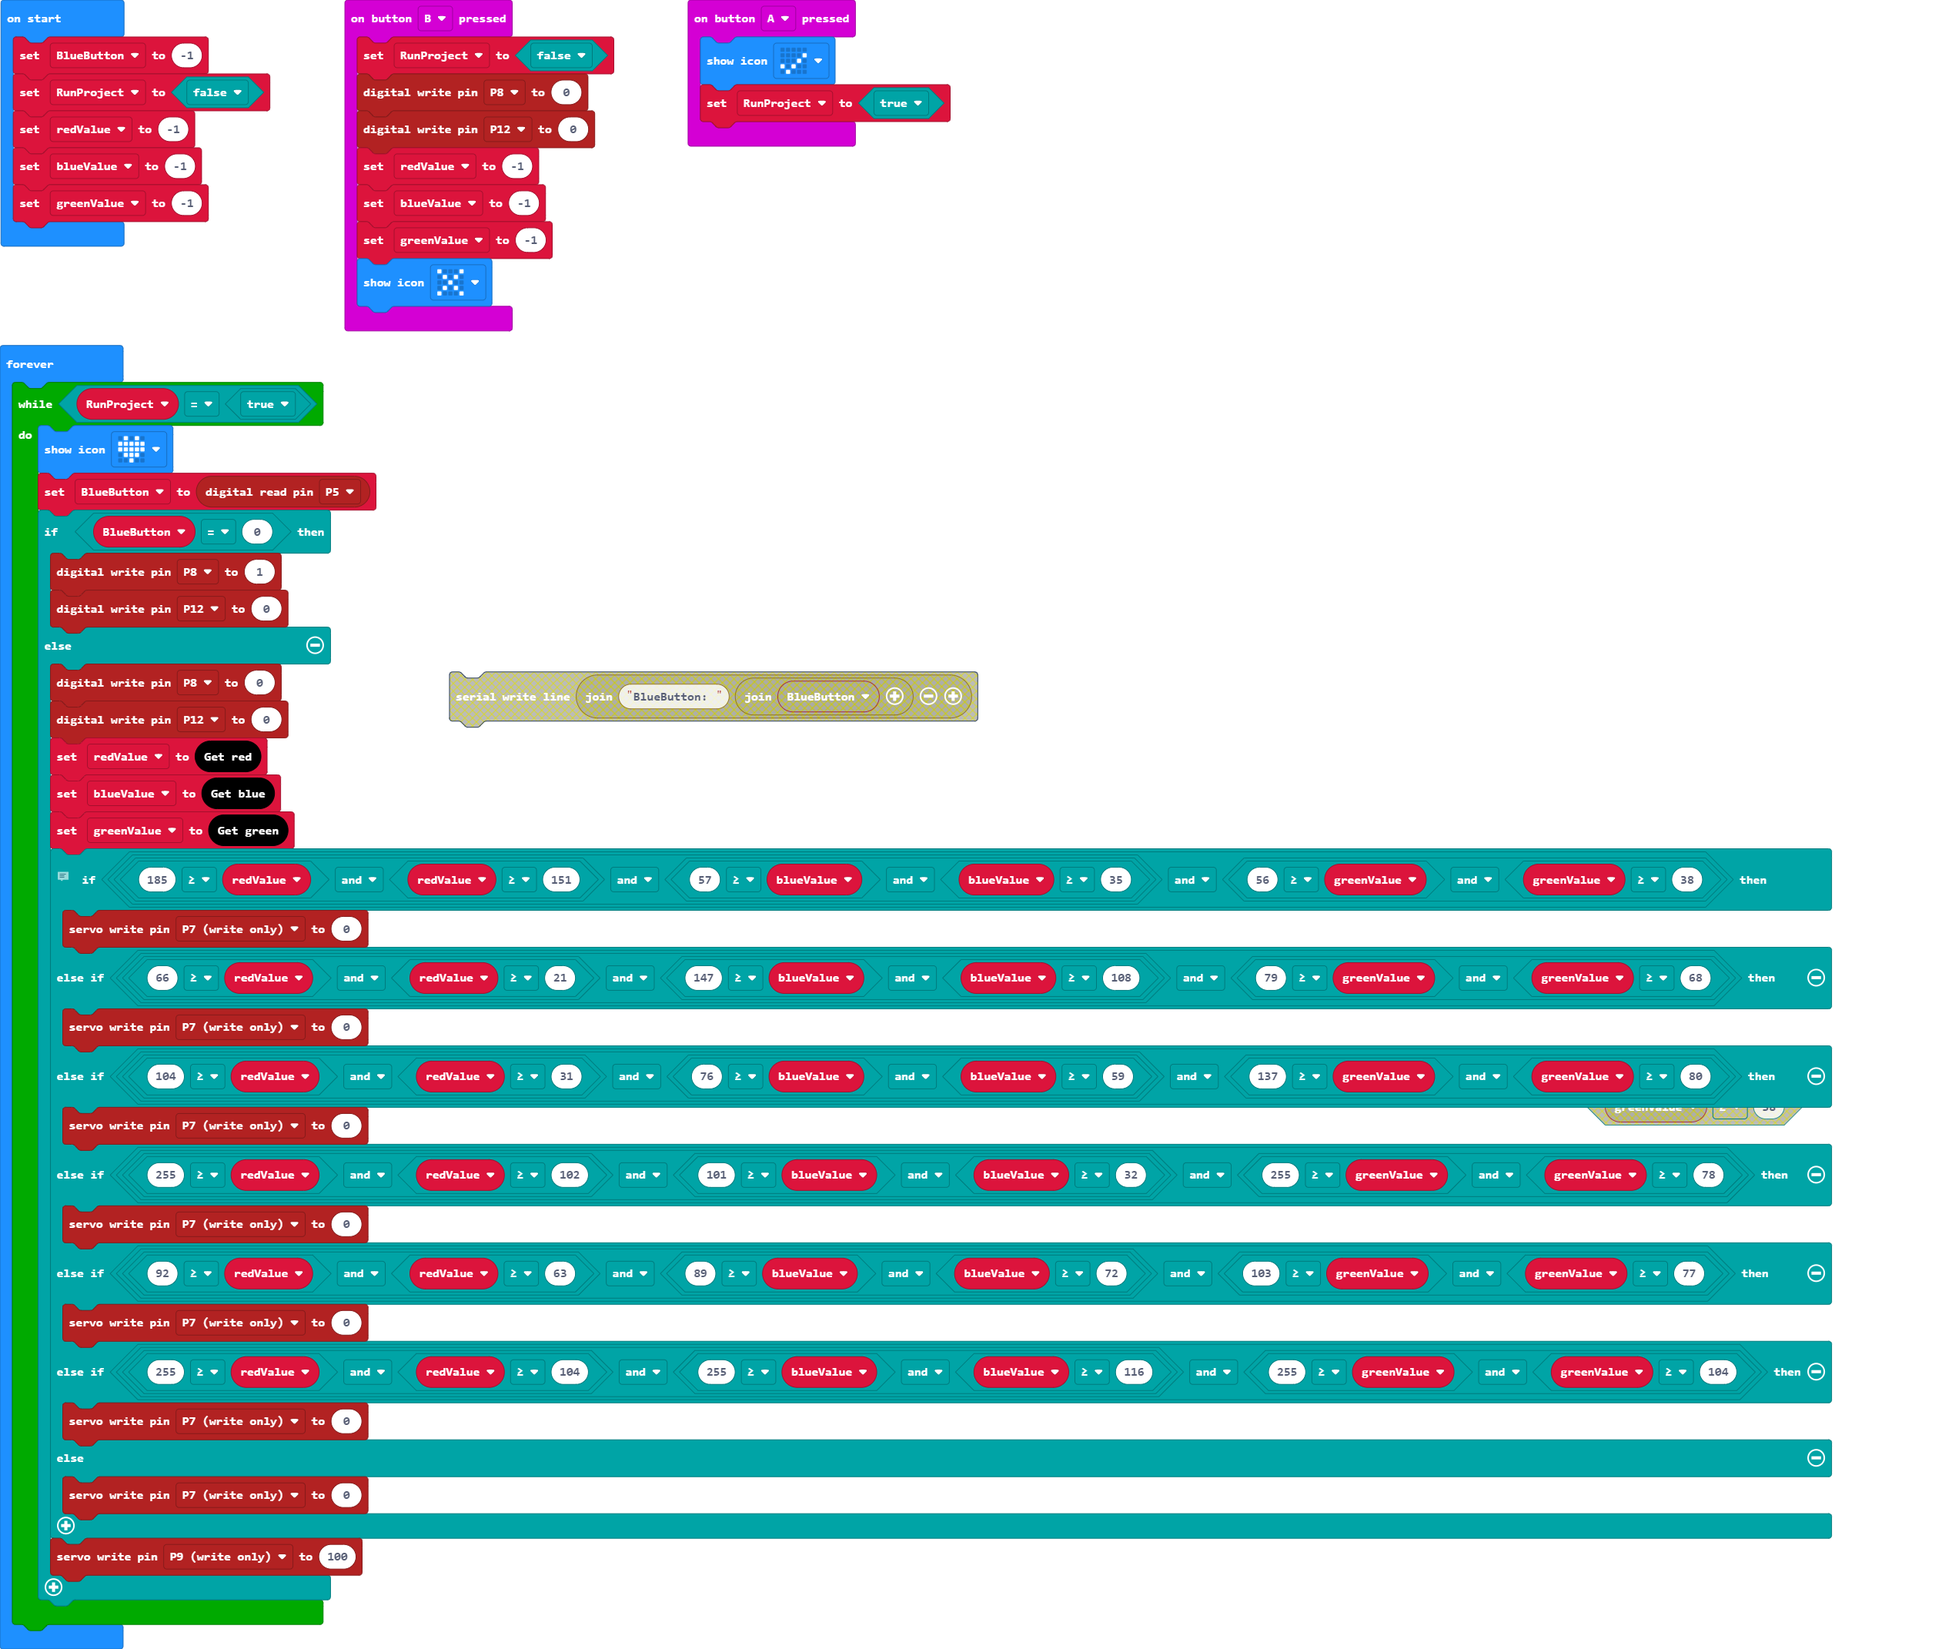
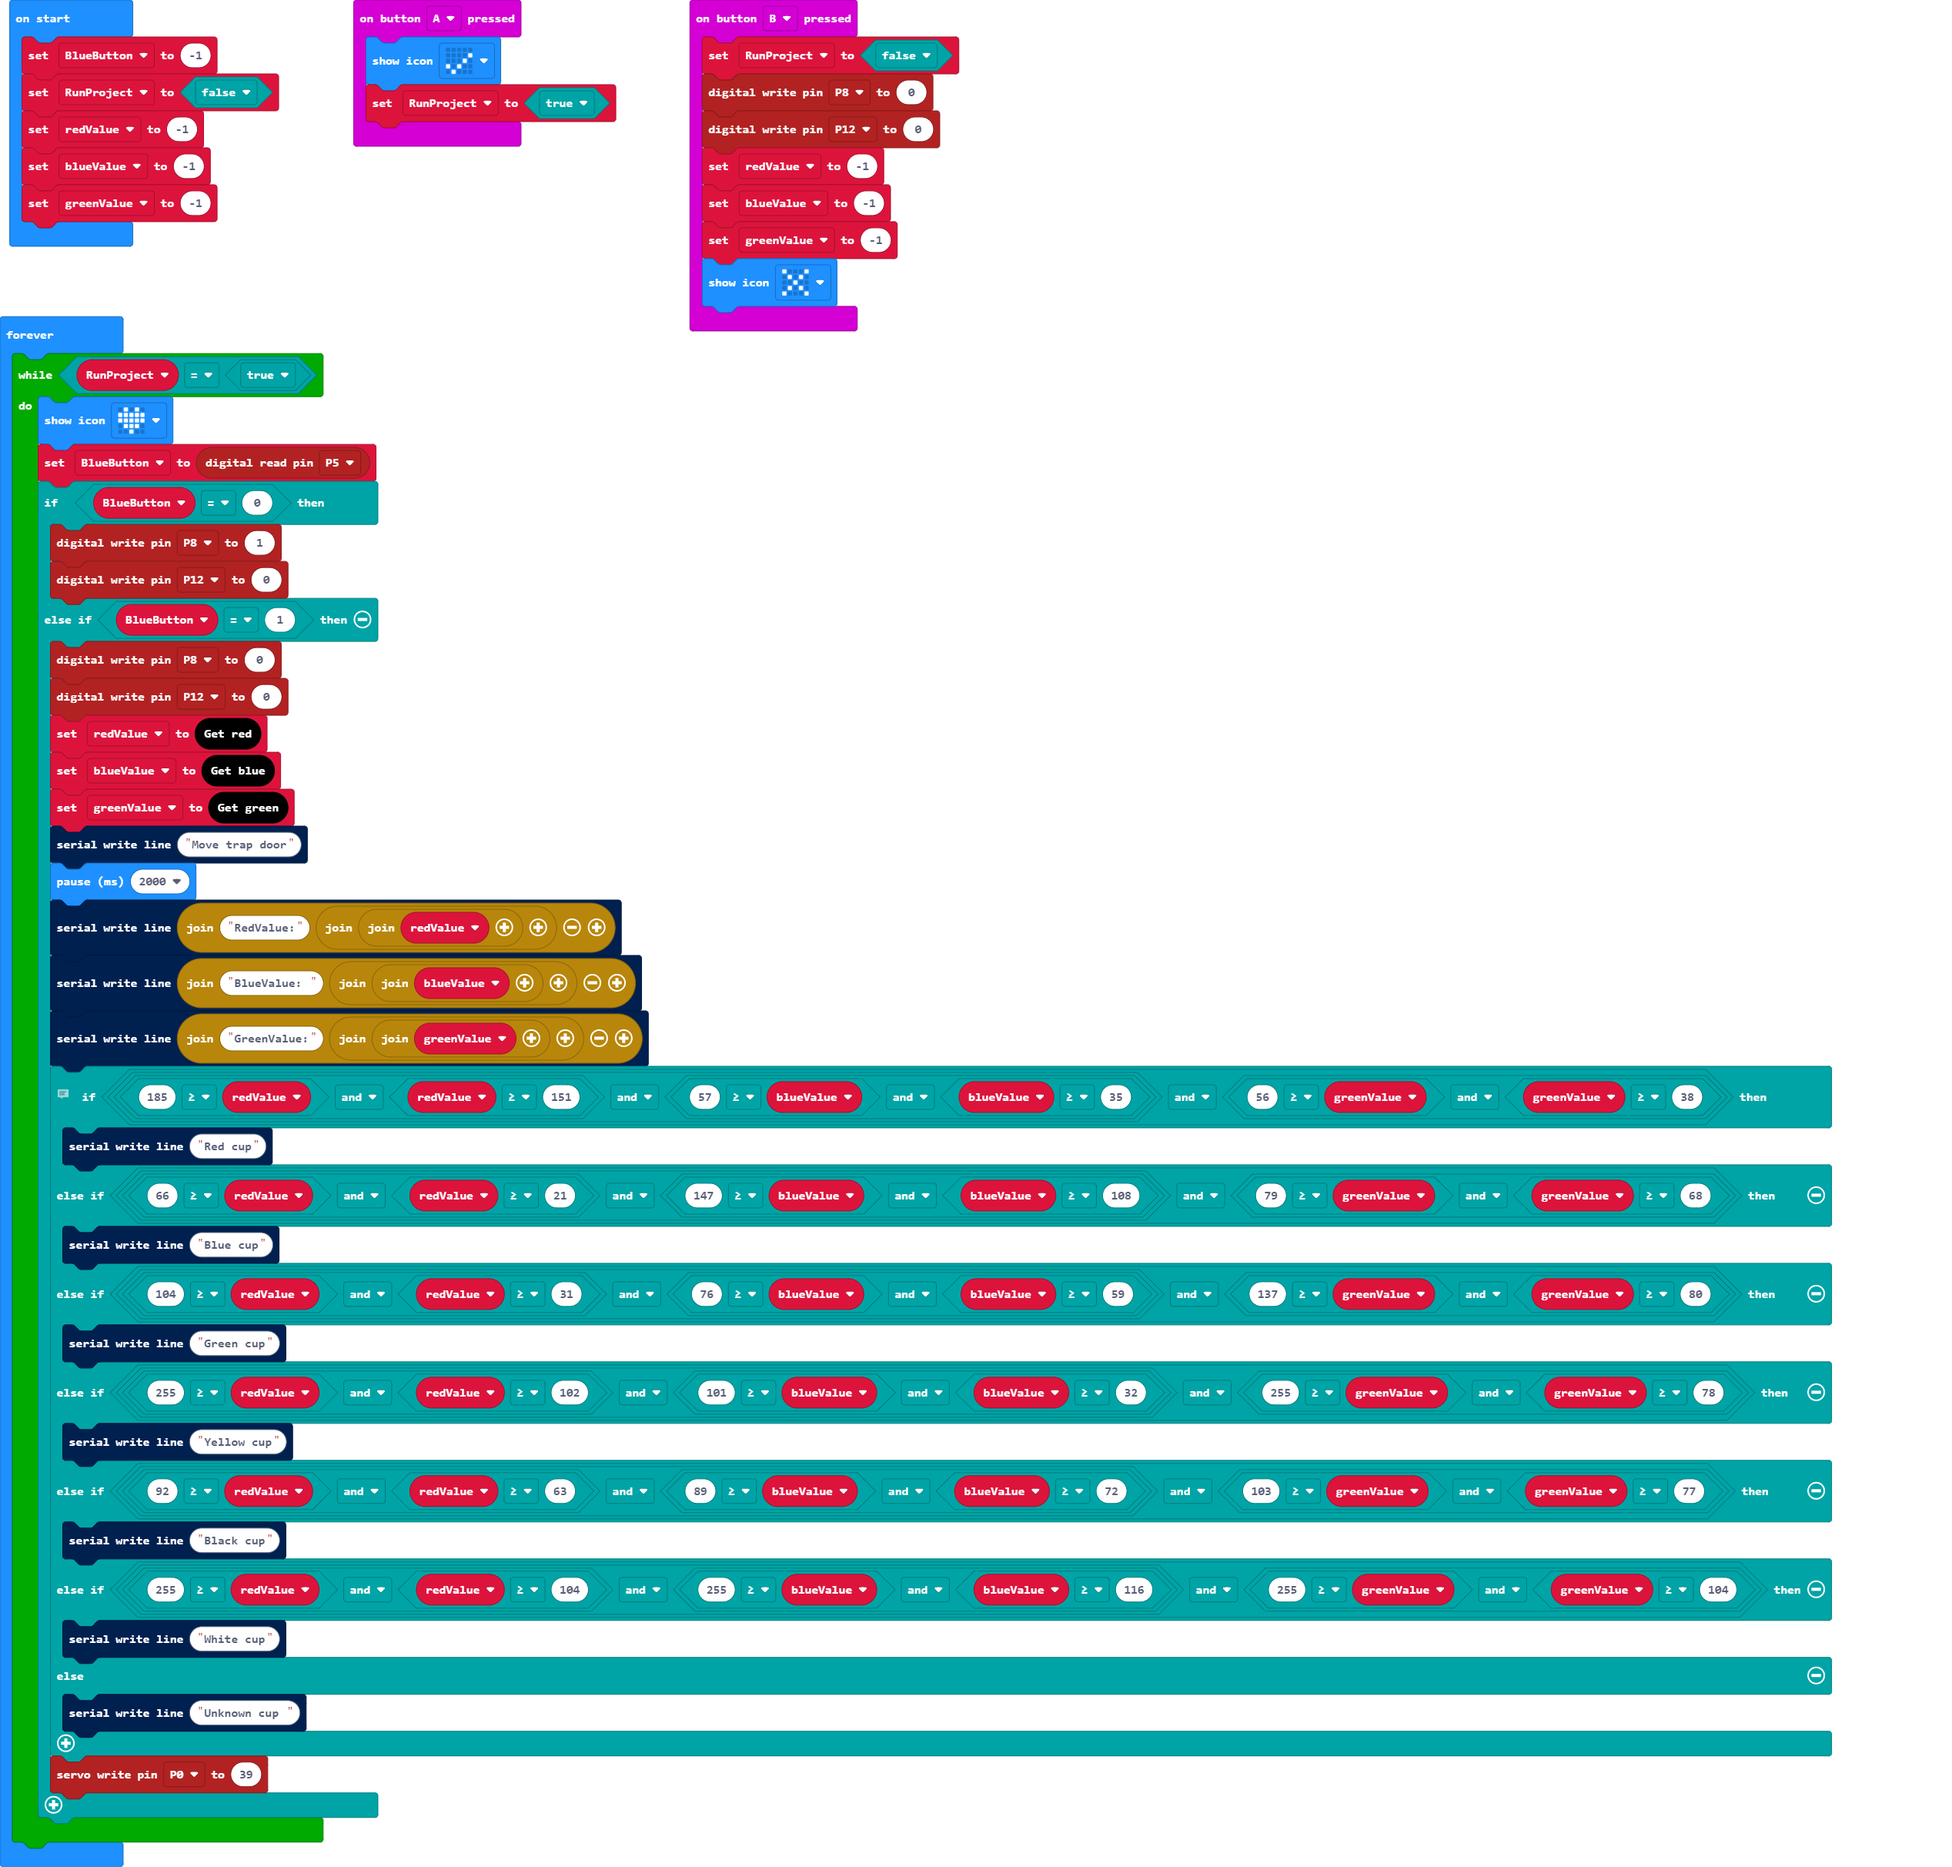
Update main.blocks, main.ts, main.py

diff --git a/main.ts b/main.ts
@@ -27,12 +27,17 @@ basic.forever(function () {
         if (BlueButton == 0) {
             pins.digitalWritePin(DigitalPin.P8, 1)
             pins.digitalWritePin(DigitalPin.P12, 0)
-        } else {
+        } else if (BlueButton == 1) {
             pins.digitalWritePin(DigitalPin.P8, 0)
             pins.digitalWritePin(DigitalPin.P12, 0)
             redValue = envirobit.getRed()
             blueValue = envirobit.getBlue()
             greenValue = envirobit.getGreen()
+            serial.writeLine("Move trap door")
+            basic.pause(2000)
+            serial.writeLine("RedValue:" + ("" + redValue))
+            serial.writeLine("BlueValue: " + ("" + blueValue))
+            serial.writeLine("GreenValue:" + ("" + greenValue))
             // Red
             // Blue
             // Green
@@ -41,21 +46,21 @@ basic.forever(function () {
             // White
             // Unknown
             if (185 >= redValue && redValue >= 151 && (57 >= blueValue && blueValue >= 35) && (56 >= greenValue && greenValue >= 38)) {
-                pins.servoWritePin(AnalogPin.P7, 0)
+                serial.writeLine("Red cup")
             } else if (66 >= redValue && redValue >= 21 && (147 >= blueValue && blueValue >= 108) && (79 >= greenValue && greenValue >= 68)) {
-                pins.servoWritePin(AnalogPin.P7, 0)
+                serial.writeLine("Blue cup")
             } else if (104 >= redValue && redValue >= 31 && (76 >= blueValue && blueValue >= 59) && (137 >= greenValue && greenValue >= 80)) {
-                pins.servoWritePin(AnalogPin.P7, 0)
+                serial.writeLine("Green cup")
             } else if (255 >= redValue && redValue >= 102 && (101 >= blueValue && blueValue >= 32) && (255 >= greenValue && greenValue >= 78)) {
-                pins.servoWritePin(AnalogPin.P7, 0)
+                serial.writeLine("Yellow cup")
             } else if (92 >= redValue && redValue >= 63 && (89 >= blueValue && blueValue >= 72) && (103 >= greenValue && greenValue >= 77)) {
-                pins.servoWritePin(AnalogPin.P7, 0)
+                serial.writeLine("Black cup")
             } else if (255 >= redValue && redValue >= 104 && (255 >= blueValue && blueValue >= 116) && (255 >= greenValue && greenValue >= 104)) {
-                pins.servoWritePin(AnalogPin.P7, 0)
+                serial.writeLine("White cup")
             } else {
-                pins.servoWritePin(AnalogPin.P7, 0)
+                serial.writeLine("Unknown cup ")
             }
-            pins.servoWritePin(AnalogPin.P9, 100)
+            pins.servoWritePin(AnalogPin.P0, 39)
         }
     }
 })

diff --git a/main.py b/main.py
@@ -33,31 +33,15 @@ def on_forever():
         if BlueButton == 0:
             pins.digital_write_pin(DigitalPin.P8, 1)
             pins.digital_write_pin(DigitalPin.P12, 0)
-        else:
+            serial.write_line("If, BlueButton:" + ("" + str(BlueButton)))
+        elif BlueButton == 1:
             pins.digital_write_pin(DigitalPin.P8, 0)
             pins.digital_write_pin(DigitalPin.P12, 0)
             redValue = envirobit.get_red()
             blueValue = envirobit.get_blue()
             greenValue = envirobit.get_green()
-            # Red
-            if 185 >= redValue and redValue >= 151 and (57 >= blueValue and blueValue >= 35) and (56 >= greenValue and greenValue >= 38):
-                pass
-            # Blue
-            elif 185 >= redValue and redValue >= 151 and (57 >= blueValue and blueValue >= 35) and (56 >= greenValue and greenValue >= 38):
-                pass
-            # Green
-            elif 185 >= redValue and redValue >= 151 and (57 >= blueValue and blueValue >= 35) and (56 >= greenValue and greenValue >= 38):
-                pass
-            # Yellow
-            elif 185 >= redValue and redValue >= 151 and (57 >= blueValue and blueValue >= 35) and (56 >= greenValue and greenValue >= 38):
-                pass
-            # Black
-            elif 185 >= redValue and redValue >= 151 and (57 >= blueValue and blueValue >= 35) and (56 >= greenValue and greenValue >= 38):
-                pass
-            # White
-            elif 185 >= redValue and redValue >= 151 and (57 >= blueValue and blueValue >= 35) and (56 >= greenValue and greenValue >= 38):
-                pass
-            # Unknown
-            else:
-                pass
+            BlueButton = -1
+            serial.write_line("Else if, BlueButton:" + ("" + str(BlueButton)))
+        else:
+            serial.write_line("Else, BlueButton:" + ("" + str(BlueButton)))
 basic.forever(on_forever)
